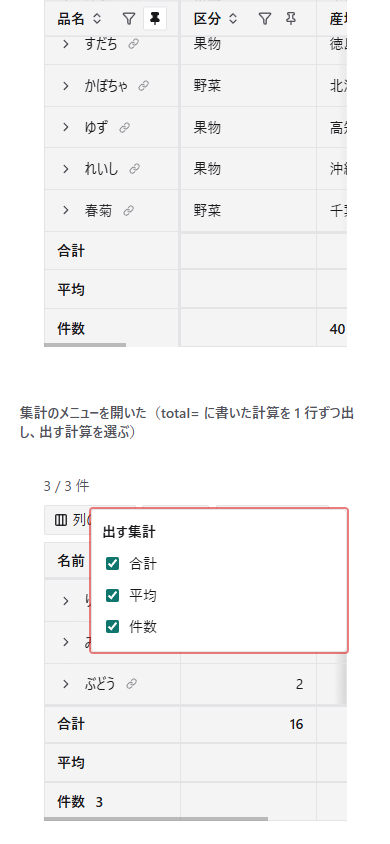
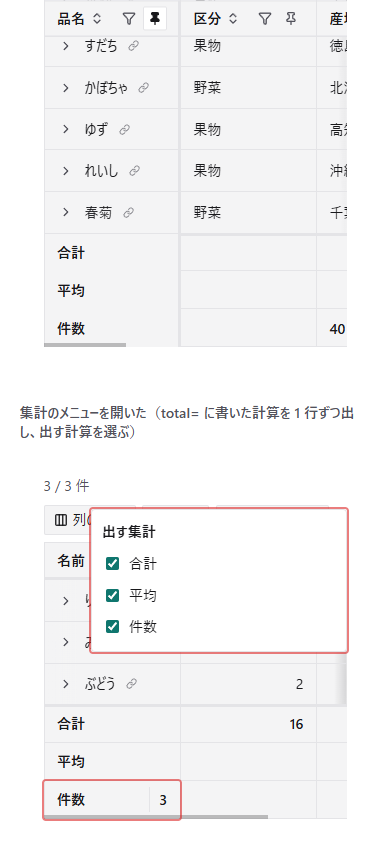
mock: 留めた集計の行の透け・先頭の列の集計の値の置き方・狭い紙の集計の行を修正し、撮り直す

diff --git a/dev/mock/refs/151/assets/table-print.css b/dev/mock/refs/151/assets/table-print.css
@@ -20,4 +20,46 @@
       display: table-cell;
     }
   }
+
+  /* 紙の幅が狭く、表を行ごとの「見出し: 値」の並びに積むとき */
+  @media (max-width: 40rem) {
+    .mdmark {
+      /* 画面で隠している行（一致する行が無いときの知らせなど）: 積んだときも出さない */
+      .mdmark-table tr[hidden] {
+        display: none;
+      }
+
+      /* 集計の行: 計算の名前と、値のある列だけを 1 行に並べる */
+      .mdmark-table tfoot {
+        display: block;
+      }
+
+      /* 集計の行の 1 行: 名前と値を横に並べ、入りきらなければ折り返す */
+      .mdmark-table tfoot tr {
+        display: flex;
+        flex-wrap: wrap;
+        align-items: baseline;
+        gap: 0 1.5em;
+      }
+
+      /* 集計の行のセル（ピン止めした列を含む）: 面の色と線を外す */
+      .mdmark-table tfoot td:is(*, .is-pinned-col) {
+        display: block;
+        border: 0;
+        background: none;
+        box-shadow: none;
+      }
+
+      /* 集計の行の値の無いセル（畳んだ最終列を含む）: 出さない */
+      .mdmark-table tfoot td:not(:has(.mdmark-total-name, .mdmark-total-value, .mdmark-total-unreadable)),
+      .mdmark-table.is-folded tfoot td.mdmark-fold-col:not(:has(.mdmark-total-value, .mdmark-total-unreadable)) {
+        display: none;
+      }
+
+      /* 集計の行の先頭のセル: 計算の名前が見出しになるので、列名を出さない */
+      .mdmark-table tfoot td:first-child::before {
+        content: none;
+      }
+    }
+  }
 }

diff --git a/dev/mock/refs/151/assets/table.css b/dev/mock/refs/151/assets/table.css
@@ -23,6 +23,11 @@
       z-index: 4;
     }
 
+    /* ずらす集計の行のセル: 行の間の罫線を外して面の色を隙間なくつなぎ、後ろの本文の行を透かさない（行の区切りは影の線で引く） */
+    .mdmark-table:is(.is-sticky-timeline, .is-sticky-shift) tfoot td {
+      border-block-width: 0;
+    }
+
     /* 案 D は animation-timeline と範囲の指定を持つブラウザだけに当てる（持たないブラウザで時間のアニメーションとして走らせない） */
     @supports (animation-timeline: view()) and (animation-range: 0% 100%) {
       /* 案 D: 表が画面の上端を過ぎる間を、見出し行と集計の行を動かすタイムラインにする（上端から留める位置のずれだけ内側を測る） */
@@ -69,9 +74,12 @@
       font-weight: 600;
     }
 
-    /* 先頭の列も集計するときの、名前と値の間 */
+    /* 先頭の列も集計するときの値: 計算の名前と分けてセルの末尾に寄せ、細い縦線で名前と区切る */
     .mdmark-total-name + .mdmark-total-value {
-      margin-inline-start: 0.75em;
+      float: inline-end;
+      margin-inline-start: 1.5em;
+      padding-inline-start: 0.75em;
+      box-shadow: inset 1px 0 var(--mdmark-color-border);
     }
 
     /* 集計できない列のセル（セルで知らせる案）: 注意の色のアイコンと理由の文字 */

diff --git a/dev/mock/refs/151/assets/table.js b/dev/mock/refs/151/assets/table.js
@@ -193,7 +193,7 @@
     for (const row of table.tFoot?.rows ?? []) {
       const kind = row.dataset.totalKind;
       if (!kind) continue;
-      // 先頭のセル: 計算の名前。先頭の列も集計するときは名前の後ろに値を続ける
+      // 先頭のセル: 計算の名前。先頭の列も集計するときは、名前と分けて値をセルの末尾に置く
       const first = row.cells[0];
       for (const cell of row.cells) {
         const parts = [];
